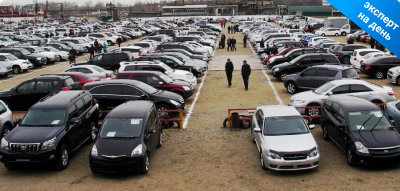
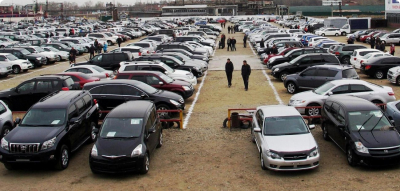
btn_arrow

Changed region(s): [[0.81, 0.0, 1.0, 0.3141]]

diff --git a/src/index.html b/src/index.html
@@ -182,8 +182,8 @@
                         <img src="images/service_3.jpg" alt="service"/>
                     </div>
                     <h3 class="card__title">
-                        Выездной осмотр нескольких авто<br/>(Латвия-Литва-Эстония)<br/>(эксперт
-                        на день)
+                        Выездной осмотр нескольких авто (Латвия-Литва-Эстония)<br/>эксперт
+                        на день
                     </h3>
                     <div class="card__content">
                         <p>
@@ -352,14 +352,15 @@
                 <li class="for-look__item">
                     <p class="for-look__title">В Латвии</p>
                     <div class="for-look__img">
-                        <a href="#"><img src="images/logo_ss.png" alt="В Латвии"/></a>
+                        <a href="https://www.ss.lv/" target="_blank">
+                            <img src="images/logo_ss.png" alt="В Латвии"/></a>
                     </div>
                 </li>
 
                 <li class="for-look__item">
                     <p class="for-look__title">В Эстонии</p>
                     <div class="for-look__img">
-                        <a href="#"
+                        <a href="https://rus.auto24.ee/main/mainindex.php" target="_blank"
                         ><img src="images/logo_auto_24.png" alt="В Эстонии"
                         /></a>
                     </div>
@@ -368,7 +369,7 @@
                 <li class="for-look__item">
                     <p class="for-look__title">В Литве</p>
                     <div class="for-look__img">
-                        <a href="#"
+                        <a href="https://ru.autoplius.lt/" target="_blank"
                         ><img src="images/logo_autoplus.png" alt="В Литве"
                         /></a>
                     </div>
@@ -377,10 +378,10 @@
                 <li class="for-look__item">
                     <p class="for-look__title">В Европе</p>
                     <div class="for-look__img">
-                        <a href="#"
+                        <a href="https://www.autoscout24.com/"
                         ><img src="images/logo_auto_scout_24.png" alt="В Европе"
                         /></a>
-                        <a href="#"
+                        <a href="https://www.mobile.de/" target="_blank"
                         ><img src="images/logo_mobile.png" alt="В Европе"
                         /></a>
                     </div>
@@ -488,7 +489,7 @@
                 <form action="#" class="form order__form">
                     <div class="form__title order__title">Заказать осмотр</div>
                     <div class="form__subtitle order__subtitle">
-                        Закажите осмотр авто у нас. <br/>
+                        Закажите осмотр авто у нас. <br/><br/>
                         Оставьте ссылку на автомобиль, который <br/>
                         вас интересует, и наш менеджер свяжется с вами
                     </div>
@@ -545,7 +546,7 @@
                 </p>
                 <div class="delivery__inner">
                     <div class="delivery__left delivery__block">
-                        <a href="#" class="delivery__link"></a>
+                        <a href=" http://bpauto.lv/cardelivery/" target="_blank" class="delivery__link"></a>
                         <p class="delivery__description">
                             Доставка автомобилей автовозом из Европы <br/>
                             в Страны Балтии. Еженедельная перевозка авто <br/>Литва -
@@ -553,7 +554,7 @@
                         </p>
                     </div>
                     <div class="delivery__right delivery__block">
-                        <a href="#" class="delivery__link delivery__link--hover"></a>
+                        <a href="http://bpauto.lv/"  target="_blank" class="delivery__link delivery__link--hover"></a>
                         <p class="delivery__description">
                             Автосервис. <br/>Продажа новых, б/у автозапчастей.
                         </p>
@@ -768,6 +769,7 @@
         </div>
     </form>
 </section>
+<div id="btnUp" style="display: inline;"></div>
 <!-- Scripts -->
 <script src="libs/jquery.min.js"></script>
 <script src="libs/jquery.magnific-popup.min.js"></script>

diff --git a/src/styles/main.scss b/src/styles/main.scss
@@ -350,7 +350,7 @@ ul {
 
   &__title {
     color: $title-color;
-    font-size: 15px;
+    font-size: 14px;
     font-style: normal;
     font-weight: 500;
     line-height: 110%;
@@ -394,6 +394,7 @@ ul {
     font-size: 13px;
     line-height: 130%;
     padding: 0 28px;
+    margin-top: 0;
   }
 
   &__line-top {
@@ -468,12 +469,12 @@ ul {
     }
 
     &--why {
-      @media screen and (min-width: 768px) {
-        width: calc(100% / 4 - 24px);
-        &:nth-last-child(-n + 4) {
-          margin-bottom: 0;
-        }
+      width: calc(100% / 4 - 24px);
+
+      &:nth-last-child(-n + 4) {
+        margin-bottom: 0;
       }
+
     }
   }
 
@@ -535,7 +536,7 @@ ul {
   }
 
   &__label {
-    font-size: 16px;
+    font-size: 15.5px;
     line-height: 110%;
   }
 
@@ -698,10 +699,10 @@ ul {
     margin: 0 auto;
     width: 190px;
 
-    &:hover {
-      background: url('../images/delivery_hover.png') no-repeat center;
-      background-size: contain;
-    }
+    //&:hover {
+    //  background: url('../images/delivery_hover.png') no-repeat center;
+    //  background-size: contain;
+    //}
 
     &--hover {
       background: url('../images/delivery_hover.png') no-repeat center;
@@ -1180,5 +1181,25 @@ ul {
 }
 
 .mfp-close-btn-in .mfp-close {
- opacity: 0;
+  opacity: 0;
+  width: 0;
+  height: 0;
+  pointer-events: none;
+}
+
+#btnUp {
+  background: url('../images/icon/icon_arrow-up.png') no-repeat;
+  background-size: cover;
+  border: none;
+  bottom: 80px;
+  display: none;
+  height: 51px;
+  overflow: hidden;
+  position: fixed;
+  right: 16px;
+  text-decoration: none;
+  text-indent: 100%;
+  width: 51px;
+  z-index: 130;
+  cursor: pointer;
 }
